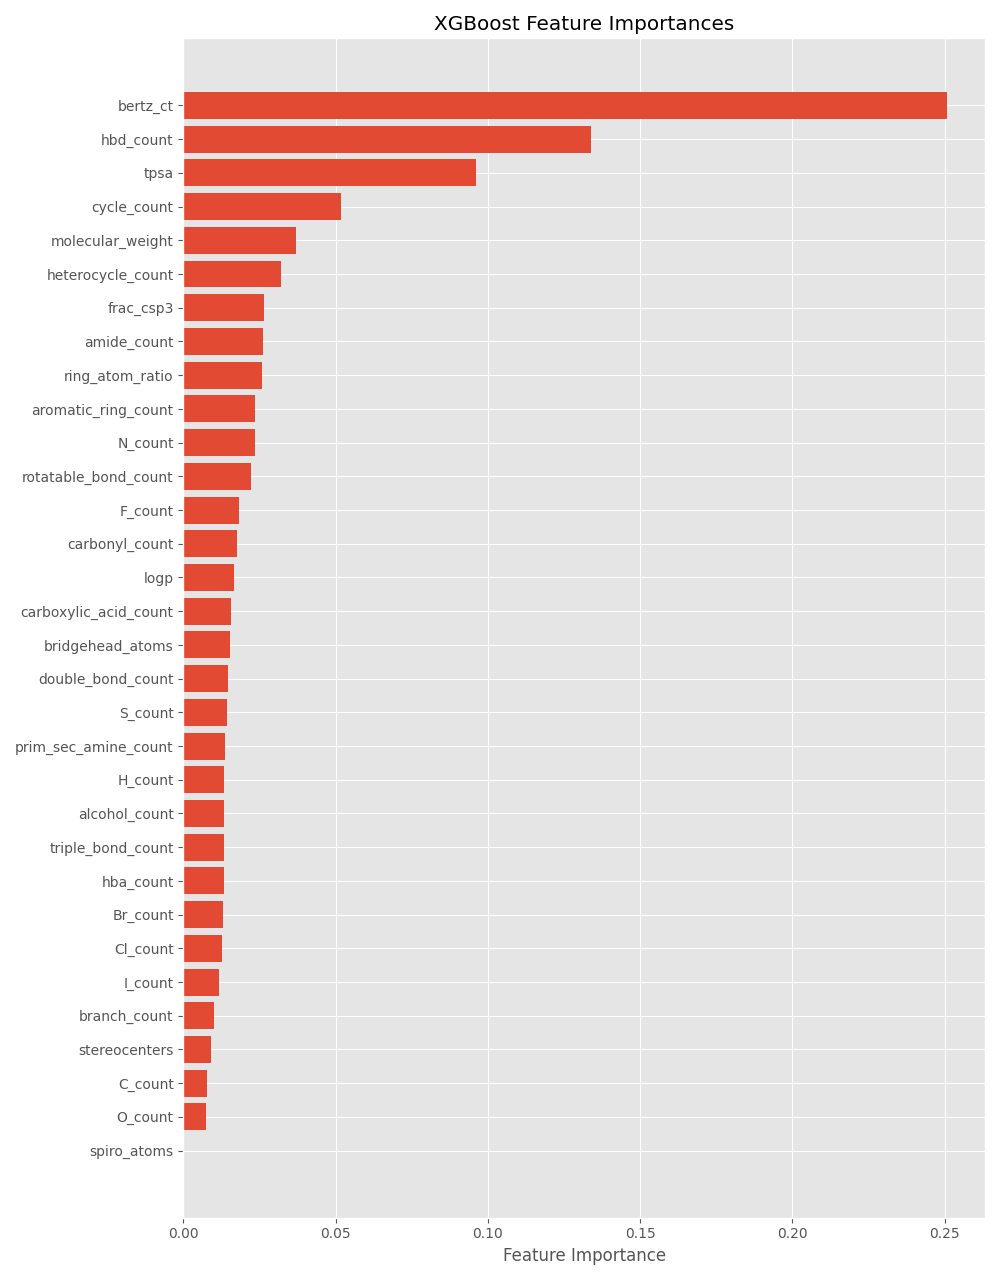
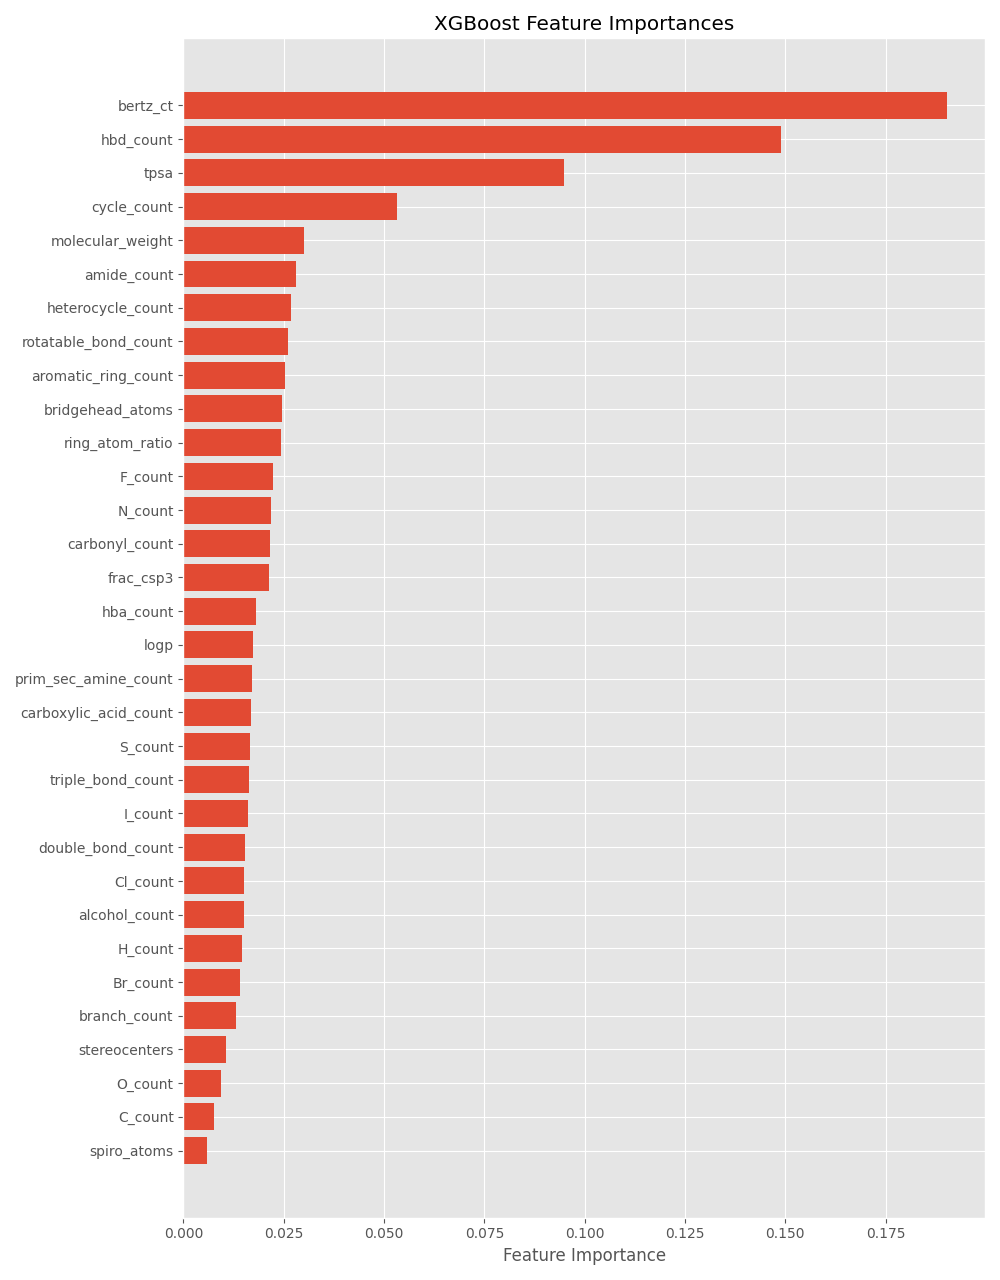
increase xgb depth

diff --git a/README.md b/README.md
@@ -19,7 +19,7 @@ The answer is a clear yes.
 | Model | MAE (°C) | RMSE (°C) | Approach |
 |---|---|---|---|
 | Ridge Regression | 40.26 | 54.59 | L2-regularized linear model on 33 RDKit descriptors |
-| XGBoost | 29.89 | 39.67 | Gradient boosting on same descriptors |
+| XGBoost | 28.60 | 38.56 | Gradient boosting on same descriptors |
 | **GIN** | **26.86** | **36.28** | Graph Isomorphism Network with virtual node |
 | **GAT** | **25.99** | **34.86** | Graph Attention Network with multi-head attention |
 